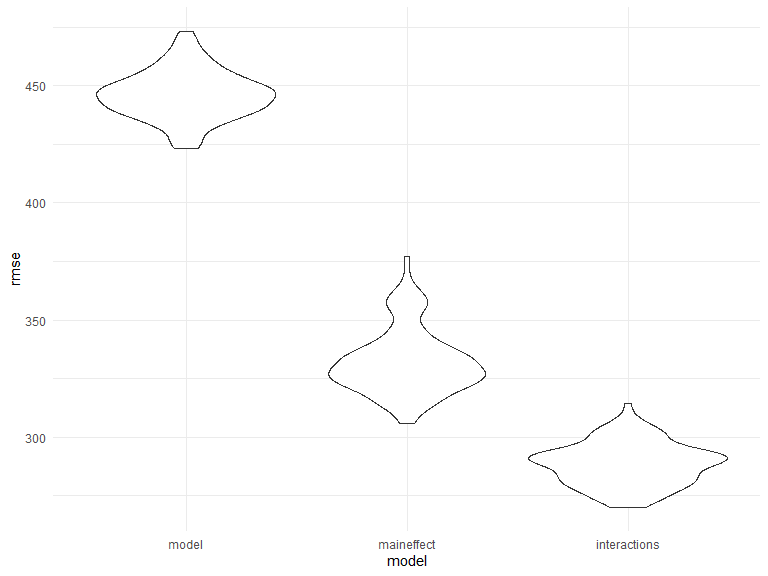
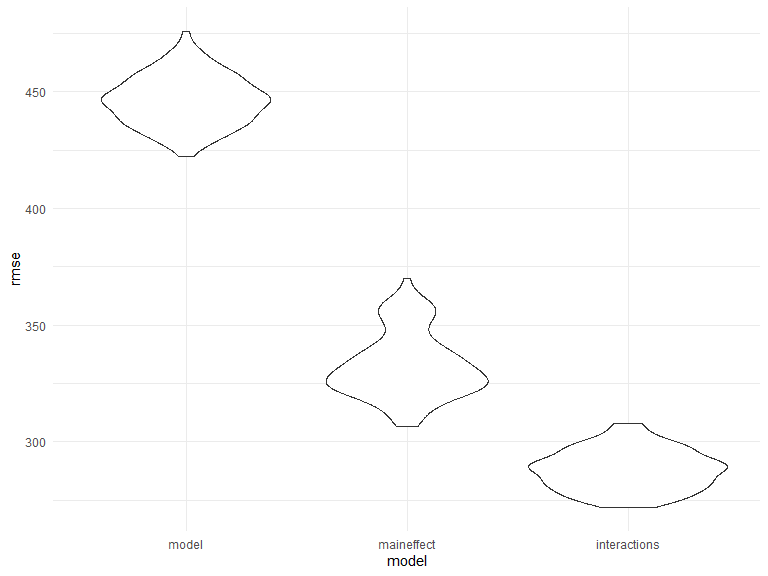
updated question 3 and included question 1

diff --git a/hw6.md b/hw6.md
@@ -4,6 +4,87 @@ Ayako Sekiya
 
 ## Problem 1
 
+To obtain a distribution for $\hat{r}^2$, we’ll follow basically the
+same procedure we used for regression coefficients: draw bootstrap
+samples; the a model to each; extract the value I’m concerned with; and
+summarize. Here, we’ll use `modelr::bootstrap` to draw the samples and
+`broom::glance` to produce `r.squared` values.
+
+``` r
+weather_df = 
+  rnoaa::meteo_pull_monitors(
+    c("USW00094728"),
+    var = c("PRCP", "TMIN", "TMAX"), 
+    date_min = "2017-01-01",
+    date_max = "2017-12-31") %>%
+  mutate(
+    name = recode(id, USW00094728 = "CentralPark_NY"),
+    tmin = tmin / 10,
+    tmax = tmax / 10) %>%
+  select(name, id, everything())
+```
+
+    ## Registered S3 method overwritten by 'hoardr':
+    ##   method           from
+    ##   print.cache_info httr
+
+    ## using cached file: C:\Users\KAMONO~1\AppData\Local/Cache/R/noaa_ghcnd/USW00094728.dly
+
+    ## date created (size, mb): 2022-09-06 10:44:32 (8.414)
+
+    ## file min/max dates: 1869-01-01 / 2022-09-30
+
+``` r
+weather_df %>% 
+  modelr::bootstrap(n = 1000) %>% 
+  mutate(
+    models = map(strap, ~lm(tmax ~ tmin, data = .x) ),
+    results = map(models, broom::glance)) %>% 
+  select(-strap, -models) %>% 
+  unnest(results) %>% 
+  ggplot(aes(x = r.squared)) + geom_density()
+```
+
+<img src="hw6_files/figure-gfm/unnamed-chunk-1-1.png" width="90%" />
+
+In this example, the $\hat{r}^2$ value is high, and the upper bound at 1
+may be a cause for the generally skewed shape of the distribution. If we
+wanted to construct a confidence interval for $R^2$, we could take the
+2.5% and 97.5% quantiles of the estimates across bootstrap samples.
+However, because the shape isn’t symmetric, using the mean +/- 1.96
+times the standard error probably wouldn’t work well.
+
+We can produce a distribution for $\log(\beta_0 * \beta1)$ using a
+similar approach, with a bit more wrangling before we make our plot.
+
+``` r
+weather_df %>% 
+  modelr::bootstrap(n = 1000) %>% 
+  mutate(
+    models = map(strap, ~lm(tmax ~ tmin, data = .x) ),
+    results = map(models, broom::tidy)) %>% 
+  select(-strap, -models) %>% 
+  unnest(results) %>% 
+  select(id = `.id`, term, estimate) %>% 
+  pivot_wider(
+    names_from = term, 
+    values_from = estimate) %>% 
+  rename(beta0 = `(Intercept)`, beta1 = tmin) %>% 
+  mutate(log_b0b1 = log(beta0 * beta1)) %>% 
+  ggplot(aes(x = log_b0b1)) + geom_density()
+```
+
+<img src="hw6_files/figure-gfm/unnamed-chunk-2-1.png" width="90%" />
+
+As with $r^2$, this distribution is somewhat skewed and has some
+outliers.
+
+The point of this is not to say you should always use the bootstrap –
+it’s possible to establish “large sample” distributions for strange
+parameters / values / summaries in a lot of cases, and those are great
+to have. But it is helpful to know that there’s a way to do inference
+even in tough cases.
+
 ## Problem 2
 
 ``` r
@@ -20,6 +101,8 @@ homicide =
     ## 
     ## ℹ Use `spec()` to retrieve the full column specification for this data.
     ## ℹ Specify the column types or set `show_col_types = FALSE` to quiet this message.
+
+#### Data Cleaning
 
 Create a city_state variable (e.g. “Baltimore, MD”), and a binary
 variable indicating whether the homicide is solved. The number of
@@ -47,6 +130,9 @@ homicide_data=
 
     ## Adding missing grouping variables: `city_state`
 
+There are 5 columns and 39403 observations in this data set. The
+variables are city_state, resolved, victim_age, victim_race, victim_sex.
+
 For the city of Baltimore, MD, use the glm function to fit a logistic
 regression with resolved vs unresolved as the outcome and victim age,
 sex and race as predictors. Save the output of glm as an R object; apply
@@ -59,43 +145,26 @@ fit_logistic= homicide_data %>%
   broom::tidy() 
 ```
 
-``` r
-summary(fit_logistic)
-```
-
-    ##      term              estimate         std.error          statistic      
-    ##  Length:4           Min.   :-0.8545   Min.   :0.003324   Min.   :-6.1839  
-    ##  Class :character   1st Qu.:-0.8449   1st Qu.:0.104463   1st Qu.:-5.1594  
-    ##  Mode  :character   Median :-0.4242   Median :0.156446   Median :-3.4210  
-    ##                     Mean   :-0.1378   Mean   :0.138235   Mean   :-2.0401  
-    ##                     3rd Qu.: 0.2829   3rd Qu.:0.190218   3rd Qu.:-0.3018  
-    ##                     Max.   : 1.1517   Max.   :0.236725   Max.   : 4.8653  
-    ##     p.value         
-    ##  Min.   :0.000e+00  
-    ##  1st Qu.:8.600e-07  
-    ##  Median :1.300e-06  
-    ##  Mean   :1.074e-02  
-    ##  3rd Qu.:1.074e-02  
-    ##  Max.   :4.296e-02
-
 Obtain the estimate and confidence interval of the adjusted odds ratio
 for solving homicides comparing male victims to female victims keeping
 all other variables fixed.
 
 ``` r
-fit_logistic %>% 
+baltimore_df= fit_logistic %>% 
   mutate(log_OR = estimate,
          OR = exp(estimate),
         ci_low=exp(estimate-1.96*std.error),
         ci_high=exp(estimate+1.96*std.error)) %>%
   select(term,log_OR, OR,ci_low,ci_high) %>% 
   filter(term == "victim_sexMale")
+
+baltimore_df %>% 
+  knitr::kable(digits = 3)
 ```
 
-    ## # A tibble: 1 × 5
-    ##   term           log_OR    OR ci_low ci_high
-    ##   <chr>           <dbl> <dbl>  <dbl>   <dbl>
-    ## 1 victim_sexMale -0.854 0.426  0.325   0.558
+| term           | log_OR |    OR | ci_low | ci_high |
+|:---------------|-------:|------:|-------:|--------:|
+| victim_sexMale | -0.854 | 0.426 |  0.325 |   0.558 |
 
 The adjusted odds ratio for solving homicides comparing male victims to
 female victims keeping all other variables fixed is 0.426 (95%CI: 0.325,
@@ -126,7 +195,62 @@ homicide_all=
         ci_high=exp(estimate+1.96*std.error)) %>%
   select(city_state,term,log_OR, OR,ci_low,ci_high) %>% 
   filter(term == "victim_sexMale")
+
+homicide_all %>% 
+  knitr::kable(digits = 3)
 ```
+
+| city_state         | term           | log_OR |    OR | ci_low | ci_high |
+|:-------------------|:---------------|-------:|------:|-------:|--------:|
+| Albuquerque, NM    | victim_sexMale |  0.570 | 1.767 |  0.831 |   3.761 |
+| Atlanta, GA        | victim_sexMale |  0.000 | 1.000 |  0.684 |   1.463 |
+| Baltimore, MD      | victim_sexMale | -0.854 | 0.426 |  0.325 |   0.558 |
+| Baton Rouge, LA    | victim_sexMale | -0.964 | 0.381 |  0.209 |   0.695 |
+| Birmingham, AL     | victim_sexMale | -0.139 | 0.870 |  0.574 |   1.318 |
+| Boston, MA         | victim_sexMale | -0.395 | 0.674 |  0.356 |   1.276 |
+| Buffalo, NY        | victim_sexMale | -0.653 | 0.521 |  0.290 |   0.935 |
+| Charlotte, NC      | victim_sexMale | -0.123 | 0.884 |  0.557 |   1.403 |
+| Chicago, IL        | victim_sexMale | -0.891 | 0.410 |  0.336 |   0.501 |
+| Cincinnati, OH     | victim_sexMale | -0.917 | 0.400 |  0.236 |   0.677 |
+| Columbus, OH       | victim_sexMale | -0.630 | 0.532 |  0.378 |   0.750 |
+| Denver, CO         | victim_sexMale | -0.736 | 0.479 |  0.236 |   0.971 |
+| Detroit, MI        | victim_sexMale | -0.541 | 0.582 |  0.462 |   0.734 |
+| Durham, NC         | victim_sexMale | -0.208 | 0.812 |  0.392 |   1.683 |
+| Fort Worth, TX     | victim_sexMale | -0.402 | 0.669 |  0.397 |   1.127 |
+| Fresno, CA         | victim_sexMale |  0.289 | 1.335 |  0.580 |   3.071 |
+| Houston, TX        | victim_sexMale | -0.341 | 0.711 |  0.558 |   0.907 |
+| Indianapolis, IN   | victim_sexMale | -0.085 | 0.919 |  0.679 |   1.242 |
+| Jacksonville, FL   | victim_sexMale | -0.329 | 0.720 |  0.537 |   0.966 |
+| Las Vegas, NV      | victim_sexMale | -0.178 | 0.837 |  0.608 |   1.154 |
+| Long Beach, CA     | victim_sexMale | -0.891 | 0.410 |  0.156 |   1.082 |
+| Los Angeles, CA    | victim_sexMale | -0.413 | 0.662 |  0.458 |   0.956 |
+| Louisville, KY     | victim_sexMale | -0.712 | 0.491 |  0.305 |   0.790 |
+| Memphis, TN        | victim_sexMale | -0.324 | 0.723 |  0.529 |   0.988 |
+| Miami, FL          | victim_sexMale | -0.663 | 0.515 |  0.304 |   0.872 |
+| Milwaukee, wI      | victim_sexMale | -0.319 | 0.727 |  0.499 |   1.060 |
+| Minneapolis, MN    | victim_sexMale | -0.054 | 0.947 |  0.478 |   1.875 |
+| Nashville, TN      | victim_sexMale |  0.034 | 1.034 |  0.685 |   1.562 |
+| New Orleans, LA    | victim_sexMale | -0.536 | 0.585 |  0.422 |   0.811 |
+| New York, NY       | victim_sexMale | -1.338 | 0.262 |  0.138 |   0.499 |
+| Oakland, CA        | victim_sexMale | -0.574 | 0.563 |  0.365 |   0.868 |
+| Oklahoma City, OK  | victim_sexMale | -0.026 | 0.974 |  0.624 |   1.520 |
+| Omaha, NE          | victim_sexMale | -0.961 | 0.382 |  0.203 |   0.721 |
+| Philadelphia, PA   | victim_sexMale | -0.701 | 0.496 |  0.378 |   0.652 |
+| Pittsburgh, PA     | victim_sexMale | -0.842 | 0.431 |  0.265 |   0.700 |
+| Richmond, VA       | victim_sexMale |  0.006 | 1.006 |  0.498 |   2.033 |
+| San Antonio, TX    | victim_sexMale | -0.350 | 0.705 |  0.398 |   1.249 |
+| Sacramento, CA     | victim_sexMale | -0.402 | 0.669 |  0.335 |   1.337 |
+| Savannah, GA       | victim_sexMale | -0.143 | 0.867 |  0.422 |   1.780 |
+| San Bernardino, CA | victim_sexMale | -0.692 | 0.500 |  0.171 |   1.462 |
+| San Diego, CA      | victim_sexMale | -0.884 | 0.413 |  0.200 |   0.855 |
+| San Francisco, CA  | victim_sexMale | -0.498 | 0.608 |  0.317 |   1.165 |
+| St. Louis, MO      | victim_sexMale | -0.352 | 0.703 |  0.530 |   0.932 |
+| Stockton, CA       | victim_sexMale |  0.301 | 1.352 |  0.621 |   2.942 |
+| Tampa, FL          | victim_sexMale | -0.214 | 0.808 |  0.348 |   1.876 |
+| Tulsa, OK          | victim_sexMale | -0.025 | 0.976 |  0.614 |   1.552 |
+| Washington, DC     | victim_sexMale | -0.371 | 0.690 |  0.468 |   1.017 |
+
+#### Plotting
 
 Create a plot that shows the estimated ORs and CIs for each city.
 Organize cities according to estimated OR, and comment on the plot.
@@ -196,28 +320,48 @@ sapply(birthweight, function(x) sum(is.na(x)))
     ##    ppbmi     ppwt   smoken   wtgain 
     ##        0        0        0        0
 
+There is no missing data. There are 20 columns and 4342 observations in
+this data set. The variables are babysex, bhead, blength, bwt, delwt,
+fincome, frace, gaweeks, malform, menarche, mheight, momage, mrace,
+parity, pnumlbw, pnumsga, ppbmi, ppwt, smoken, wtgain.
+
 #### Model Building
 
 Propose a regression model for birthweight. This model may be based on a
 hypothesized structure for the factors that underly birthweight, on a
 data-driven model-building process, or a combination of the two.
+
+Bqsed on the homework question and the codebook, I will look at the
+following predictors for my model: \* `gaweeks`: gestational age
+(weeks)  
+\* `mrace`: maternal race  
+\* `ppwt`: mother’s pre-pregnancy weight \* `fincome`: family monthly
+income (in hundreds, rounded)
+
+The outcome variable will be: \* `bwt`: baby’s birth weight (grams)
+
+``` r
+model = lm(bwt ~ gaweeks+mrace+ppwt+fincome, data = birthweight) 
+```
+
 Describe your modeling process and show a plot of model residuals
 against fitted values – use add_predictions and add_residuals in making
 this plot.
 
-Bqsed on the homework question and the codebook, I will look at the
-following predictors for my model: - `gaweeks`: gestational age
-(weeks)  
-- `mrace`: maternal race  
-- `ppwt`: mother’s pre-pregnancy weight - `fincome`: family monthly
-income (in hundreds, rounded)
-
-The outcome variable will be: - `bwt`: baby’s birth weight (grams)
-
 ``` r
-model = lm(bwt ~ gaweeks+mrace+ppwt+fincome, data = birthweight) %>% 
-broom::tidy()
+birthweight %>% 
+  modelr::add_residuals(model) %>%
+  modelr::add_predictions(model) %>%
+  ggplot(aes(x = pred, y = resid)) +
+  geom_point() +
+  labs(
+    x = "Fitted values",
+    y = "Residuals",
+    title = "Model residuals vs fitted values"
+  )
 ```
+
+<img src="hw6_files/figure-gfm/residual_plot-1.png" width="90%" />
 
 #### Cross Validation
 
@@ -236,7 +380,7 @@ One using head circumference, length, sex, and all interactions
 
 ``` r
 interactions=
-lm(bwt ~ blength*bhead*babysex, data = birthweight) %>% 
+lm(bwt ~ bhead + blength + babysex + bhead*blength + bhead*babysex + blength*babysex + bhead*blength*babysex, data = birthweight) %>% 
  broom::tidy()
 ```
 
@@ -256,7 +400,7 @@ bw_df= bw_df %>%
   mutate(
     model  = map(train, ~lm(bwt ~ gaweeks+mrace+ppwt+fincome, data = .x)),
     maineffect  = map(train, ~lm(bwt ~ blength + gaweeks, data = .x)),
-    interactions  = map(train, ~lm(bwt ~ blength*bhead*babysex, data = .x))) %>% 
+    interactions  = map(train, ~lm(bwt ~ bhead + blength + babysex + bhead*blength + bhead*babysex + blength*babysex + bhead*blength*babysex, data = .x))) %>% 
   mutate(
     rmse_model = map2_dbl(model, test, ~rmse(model = .x, data = .y)),
     rmse_maineffect = map2_dbl(maineffect, test, ~rmse(model = .x, data = .y)),
@@ -275,3 +419,11 @@ bw_df %>%
 ```
 
 <img src="hw6_files/figure-gfm/cross_validation-1.png" width="90%" />
+
+Based on the plots created with the code above, the model with all of
+the predictors had the highest RMSE, which means that it did not “fit”
+the data set as well as the other models. The model with only the main
+effect had the second lowest RMSE values, and the model with the
+interactions “fit” the data set the best. However, the RMSE values are
+still very high across the three models, so these models are not the
+most accurate in prediction.
